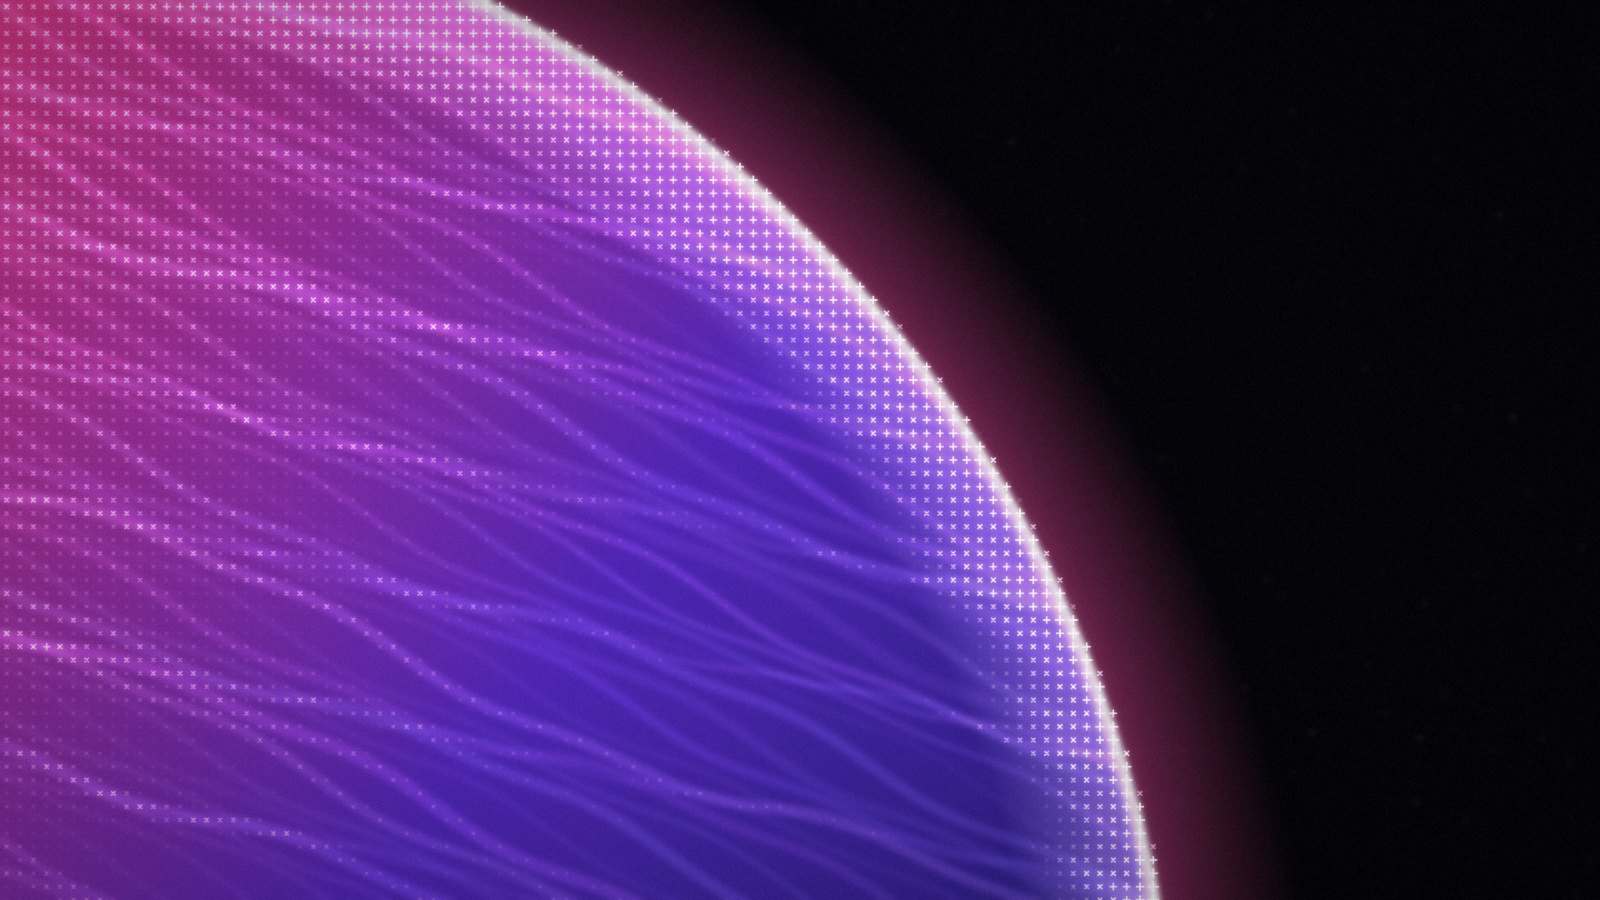
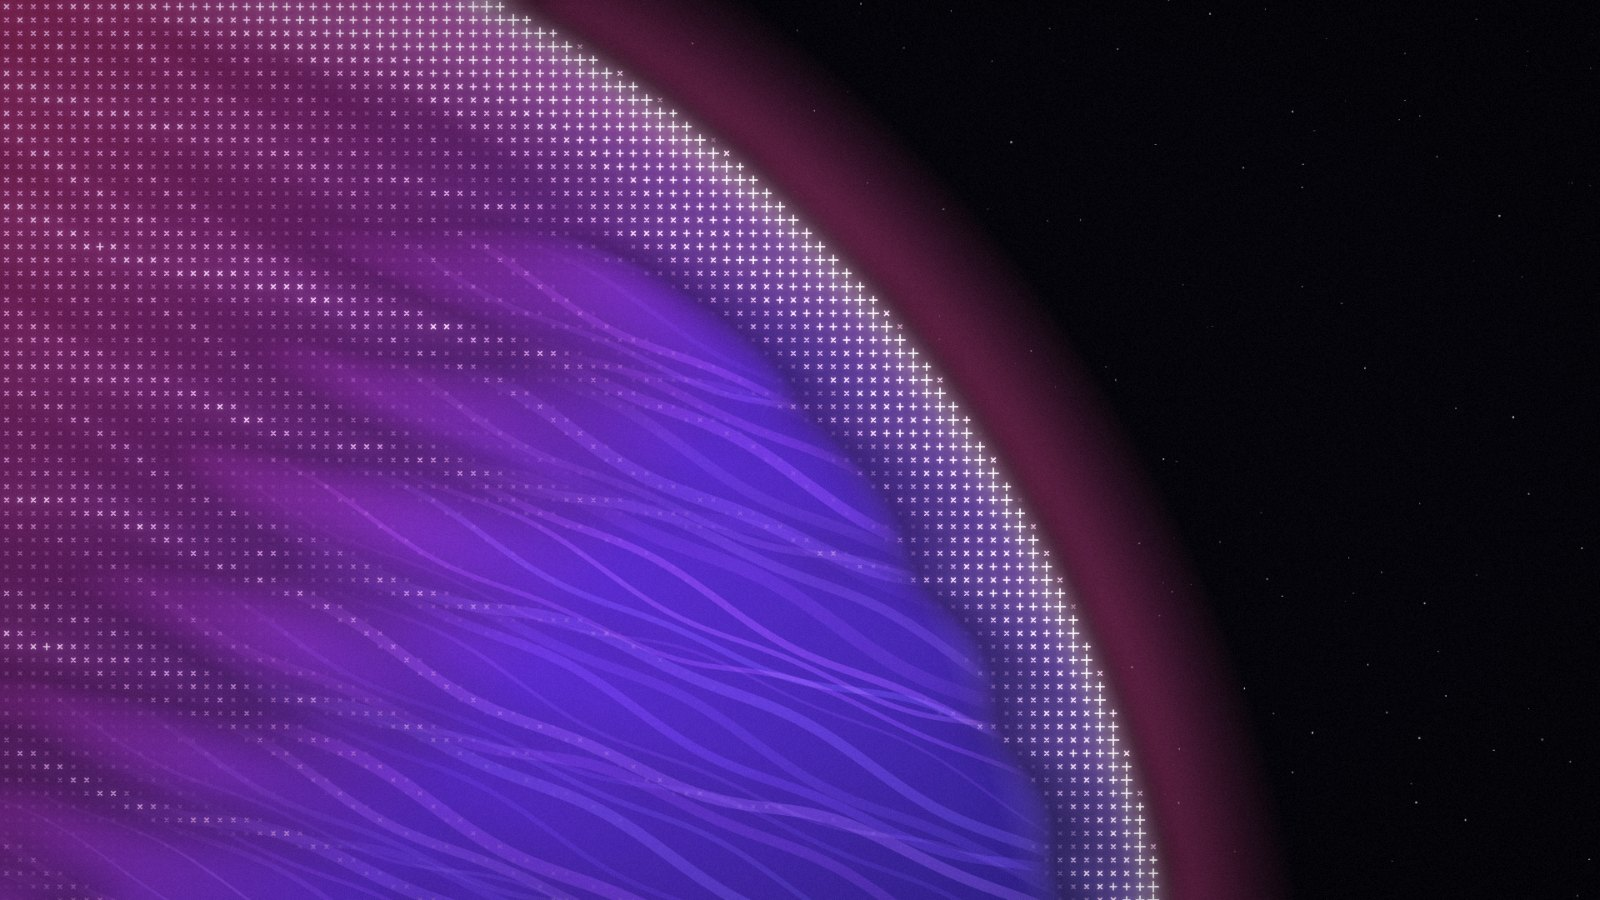
Use a sharp photo with blur and dim near the glyphs for the highlight presets

diff --git a/src/engine/params.ts b/src/engine/params.ts
@@ -164,26 +164,26 @@ export const DEFAULTS: Params = {
 export const PRESETS: Record<string, { description: string; params: Partial<Params> }> = {
   'soft-ascii': {
     description: 'Glowing ASCII on the highlights, over a softened copy of the photo',
-    params: { style: 'characters', cellSize: 14, threshold: 0.32, bgBlur: 3, bgOpacity: 0.85, bloom: 0.6, vignette: 0.2 },
+    params: { style: 'characters', cellSize: 14, threshold: 0.32, bgBlur: 3, bgOpacity: 1, haloBlur: 14, haloDim: 0.45, bloom: 0.6, vignette: 0.2 },
   },
   'sharp-ascii': {
-    description: 'Glowing ASCII on the highlights of the unblurred photo',
-    params: { style: 'characters', cellSize: 14, threshold: 0.32, bgBlur: 0, bgOpacity: 0.85, bloom: 0.6, vignette: 0.2 },
+    description: 'Glowing ASCII on the highlights of the sharp photo, softened and dimmed only around the glyphs',
+    params: { style: 'characters', cellSize: 14, threshold: 0.32, bgBlur: 0, bgOpacity: 1, haloBlur: 14, haloDim: 0.45, bloom: 0.6, vignette: 0.2 },
   },
   cross: {
     description: 'Cross-stitch "+" and "×" marks that grow with brightness',
-    params: { style: 'cross', cellSize: 16, threshold: 0.28, strokeWidth: 0.1, bgBlur: 3, bgOpacity: 0.85, glyphTint: 0.3, glyphBoost: 1.5, bloom: 0.6 },
+    params: { style: 'cross', cellSize: 16, threshold: 0.28, strokeWidth: 0.1, bgBlur: 0, bgOpacity: 1, haloBlur: 14, haloDim: 0.45, glyphTint: 0.3, glyphBoost: 1.5, bloom: 0.6 },
   },
   diagonal: {
     description: 'Hatched slashes that follow the image edges, warm film look',
     params: {
-      style: 'diagonal', cellSize: 12, threshold: 0.25, strokeWidth: 0.09, diagonalMode: 'edge', bgBlur: 5,
-      bgOpacity: 0.85, glyphTint: 0.35, glyphBoost: 1.5, bloom: 0.4, vignette: 0.25, grain: 0.06,
+      style: 'diagonal', cellSize: 12, threshold: 0.25, strokeWidth: 0.09, diagonalMode: 'edge', bgBlur: 0,
+      bgOpacity: 1, haloBlur: 14, haloDim: 0.45, glyphTint: 0.35, glyphBoost: 1.5, bloom: 0.4, vignette: 0.25, grain: 0.06,
     },
   },
   dots: {
     description: 'Halftone dots that scale with brightness',
-    params: { style: 'dots', cellSize: 12, threshold: 0.12, bgBlur: 5, bgOpacity: 0.85, glyphTint: 0.2, bloom: 0.3 },
+    params: { style: 'dots', cellSize: 12, threshold: 0.12, bgBlur: 0, bgOpacity: 1, haloBlur: 14, haloDim: 0.45, glyphTint: 0.2, bloom: 0.3 },
   },
   'full-ascii': {
     description: 'Classic ASCII art: every cell becomes a character, in the source colors on black',

diff --git a/README.md b/README.md
@@ -112,7 +112,7 @@ Press `\` (or the split button) for a before/after divider you can drag, or hold
 | Preset | Look |
 | --- | --- |
 | `soft-ascii` | Glowing ASCII on the highlights, over a softened copy of the photo |
-| `sharp-ascii` | The same over the unblurred photo |
+| `sharp-ascii` | The same over the sharp photo, softened and dimmed only around the glyphs |
 | `cross` | Cross-stitch `+` and `×` marks that grow with brightness |
 | `diagonal` | Hatched slashes that follow the edges, warm film look |
 | `dots` | Halftone dots that scale with brightness |
@@ -156,7 +156,7 @@ Glyph styles draw over a copy of the photo:
 
 - **Opacity** fades the whole photo toward the **Fill color** (black by default); 0 leaves only the fill.
 - **Blur** softens the whole photo.
-- **Dim near glyphs** and **Blur near glyphs** do the same only around the glyphs, so the glyphs stand out while the rest of the photo stays bright and sharp. **Spread** sets how far around the glyphs that reaches, in cells. Combine them freely: blur alone gives a glowing look, dim alone a dark outline, both a soft shadow.
+- **Dim near glyphs** and **Blur near glyphs** do the same only around the glyphs, so the glyphs stand out while the rest of the photo stays bright and sharp. **Spread** sets how far around the glyphs that reaches, in cells. Combine them freely: blur alone gives a glowing look, dim alone a dark outline, both a soft shadow. The highlight presets (`soft-ascii`, `sharp-ascii`, `cross`, `diagonal`, `dots`) use both, at blur 14 and dim 0.45, with the photo otherwise at full opacity.
 
 ## Effects
 
